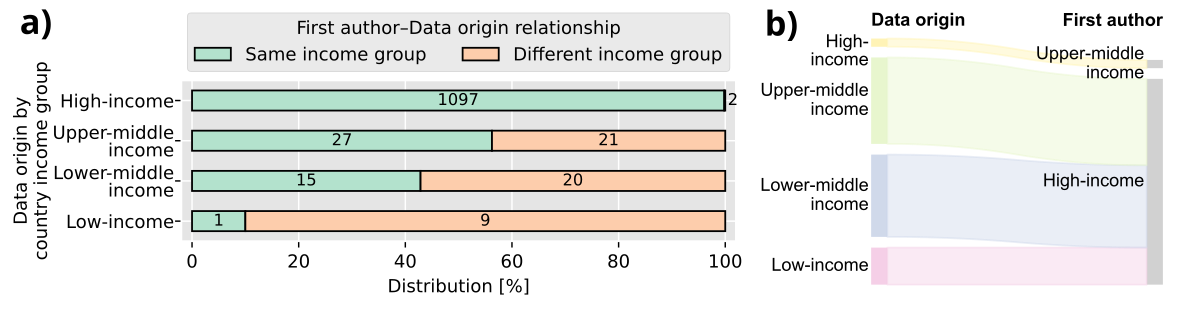
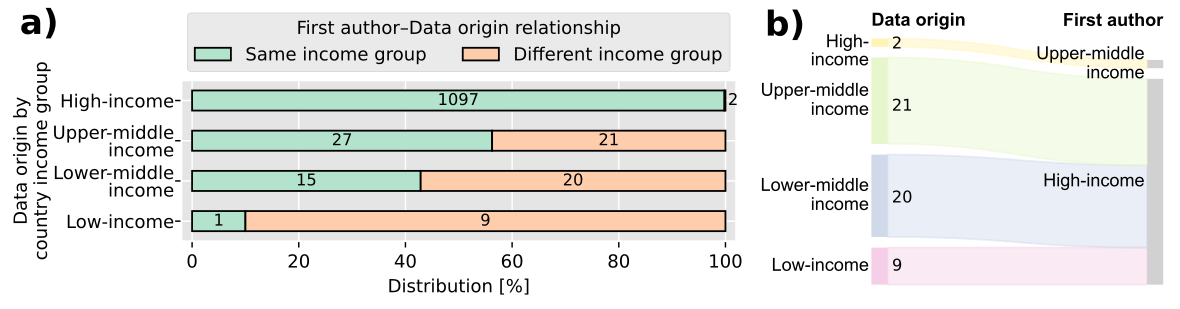
Added labels in figure 1b

diff --git a/data_preprocessing_MIE.py b/data_preprocessing_MIE.py
@@ -208,18 +208,18 @@ def preprocess_figure_MIE_fig2(df, data_origin_group, author_origin_group):
     # Calculate distribution
     df['Distribution (Disease area)'] = df['Count (Disease area)'] * 100 / df['Count (Disease area)'].sum()
 
-    explicit_disease_areas = ["Infectious and parasitic diseases", "Respiratory Infectious and diseases", "Neoplasms", "Endocrine, Metabolic, Immune and Genitourinary Disorders", "Mental and neurological conditions", "Cardiovascular diseases"]
+    explicit_disease_areas = ["Infectious and parasitic diseases", "Respiratory Infectious and diseases", "Neoplasms", "Endocrine, Metabolic, Immune and Genitourinary Disorders", "Mental and neurological conditions", "Cardiovascular diseases", "Injuries"]
 
     # Split country files into countries commonly mentioned and "other" by given threshold
-    df_other = df[~df['Disease area'].isin(explicit_disease_areas)]
-    df = df[df['Disease area'].isin(explicit_disease_areas)]
+    #df_other = df[~df['Disease area'].isin(explicit_disease_areas)]
+    #df = df[df['Disease area'].isin(explicit_disease_areas)]
 
     # Sort
     df = df.sort_values("Disease area", ascending=False)
 
     # Create and append "other" column
-    row_other = {"Disease area": "other", "Name (Disease area)": "other", "Count (Disease area)": df_other["Count (Disease area)"].sum(), "Distribution (Disease area)": df_other["Distribution (Disease area)"].sum()}
-    df = df._append(row_other, ignore_index=True)
+    #row_other = {"Disease area": "other", "Name (Disease area)": "other", "Count (Disease area)": df_other["Count (Disease area)"].sum(), "Distribution (Disease area)": df_other["Distribution (Disease area)"].sum()}
+    #df = df._append(row_other, ignore_index=True)
 
     df.to_csv('data_figure_MIE2_fig2_%s_%s.csv' % (data_origin_group, author_origin_group), sep =";", index=False)
 
@@ -280,8 +280,8 @@ df_raw = load_and_preprocess_charting()
 #preprocess_figure_MIE_fig1a(df_raw)
 #preprocess_figure_MIE_fig1b(df_raw)
 
-preprocess_figure_MIE_fig2_ICD(df_raw,  ["High-income economies"], ["High-income economies"])
-preprocess_figure_MIE_fig2_ICD(df_raw, ['Low-income economies', 'Lower-middle-income economies', 'Upper-middle-income economies'], ["High-income economies"])
-preprocess_figure_MIE_fig2_ICD(df_raw, ['Low-income economies', 'Lower-middle-income economies', 'Upper-middle-income economies'], ['Low-income economies', 'Lower-middle-income economies', 'Upper-middle-income economies'])
+preprocess_figure_MIE_fig2(df_raw,  ["High-income economies"], ["High-income economies"])
+preprocess_figure_MIE_fig2(df_raw, ['Low-income economies', 'Lower-middle-income economies', 'Upper-middle-income economies'], ["High-income economies"])
+preprocess_figure_MIE_fig2(df_raw, ['Low-income economies', 'Lower-middle-income economies', 'Upper-middle-income economies'], ['Low-income economies', 'Lower-middle-income economies', 'Upper-middle-income economies'])
 
 #preprocess_figure_S1(df_raw)
